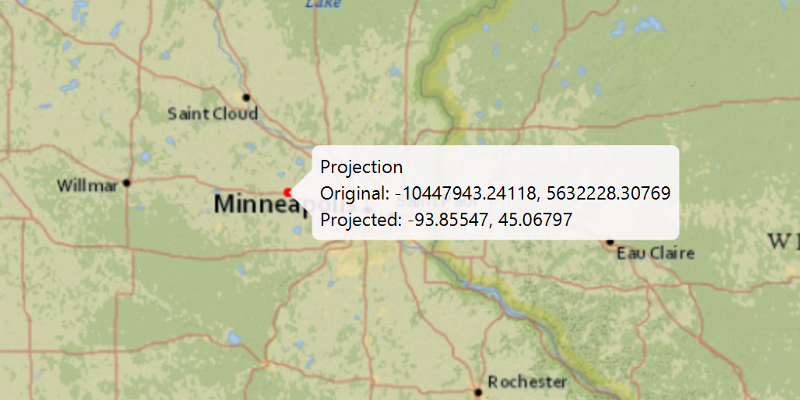
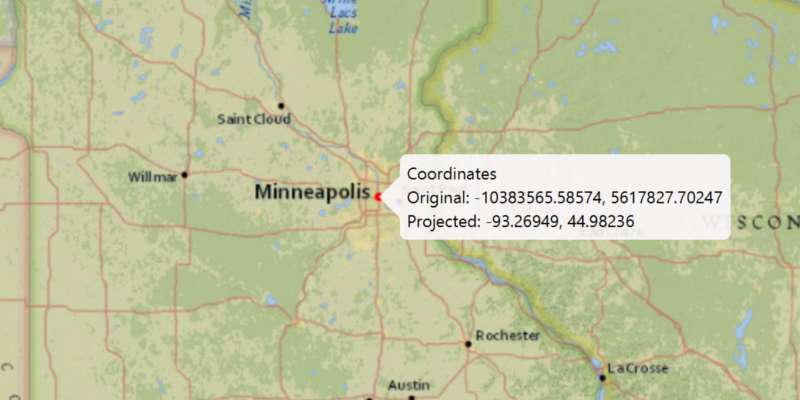
update callout title, use WKIDs for spatial references

diff --git a/src/main/java/com/esri/samples/geometry/project/ProjectSample.java b/src/main/java/com/esri/samples/geometry/project/ProjectSample.java
@@ -29,6 +29,7 @@ import com.esri.arcgisruntime.geometry.Envelope;
 import com.esri.arcgisruntime.geometry.Geometry;
 import com.esri.arcgisruntime.geometry.GeometryEngine;
 import com.esri.arcgisruntime.geometry.Point;
+import com.esri.arcgisruntime.geometry.SpatialReference;
 import com.esri.arcgisruntime.geometry.SpatialReferences;
 import com.esri.arcgisruntime.mapping.ArcGISMap;
 import com.esri.arcgisruntime.mapping.Basemap;
@@ -58,7 +59,8 @@ public class ProjectSample extends Application {
       stage.show();
 
       // create a map with a web mercator basemap
-      ArcGISMap map = new ArcGISMap(SpatialReferences.getWebMercator());
+      System.out.println(SpatialReferences.getWebMercator().getWkid());
+      ArcGISMap map = new ArcGISMap(SpatialReference.create(3857));
       map.setBasemap(Basemap.createNationalGeographic());
       mapView = new MapView();
       mapView.setMap(map);
@@ -87,11 +89,11 @@ public class ProjectSample extends Application {
           // show the clicked location on the map with a graphic
           Point originalPoint = mapView.screenToLocation(point2D);
           inputPointGraphic.setGeometry(originalPoint);
-          // project the web mercator point to WGS84
-          Point projectedPoint = (Point) GeometryEngine.project(originalPoint, SpatialReferences.getWgs84());
+          // project the web mercator point to WGS84 (WKID 4326)
+          Point projectedPoint = (Point) GeometryEngine.project(originalPoint, SpatialReference.create(4236));
           // show the original and projected point coordinates in a callout from the graphic
           Callout callout = mapView.getCallout();
-          callout.setTitle("Projection");
+          callout.setTitle("Coordinates");
           String ox = decimalFormat.format(originalPoint.getX());
           String oy = decimalFormat.format(originalPoint.getY());
           String px = decimalFormat.format(projectedPoint.getX());
